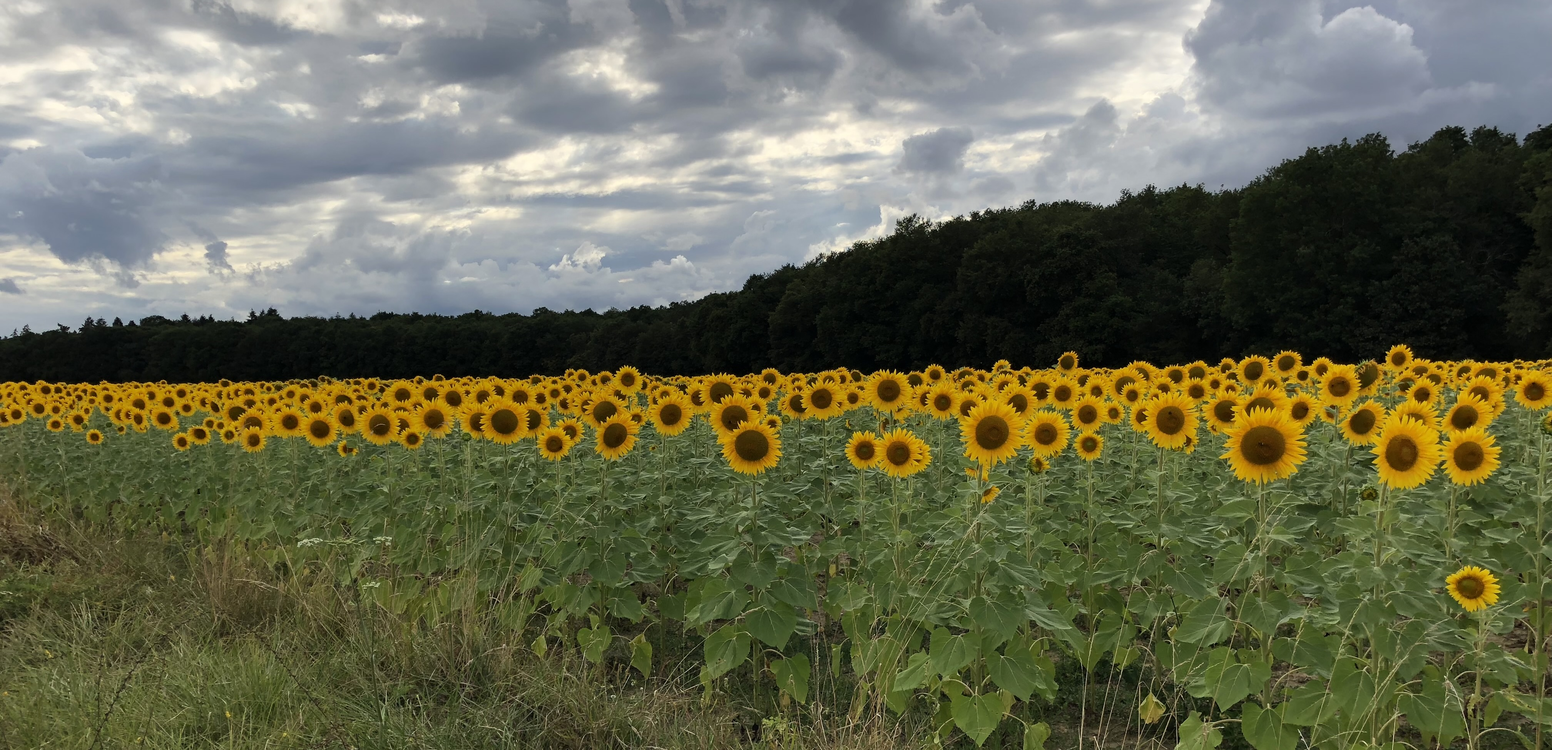
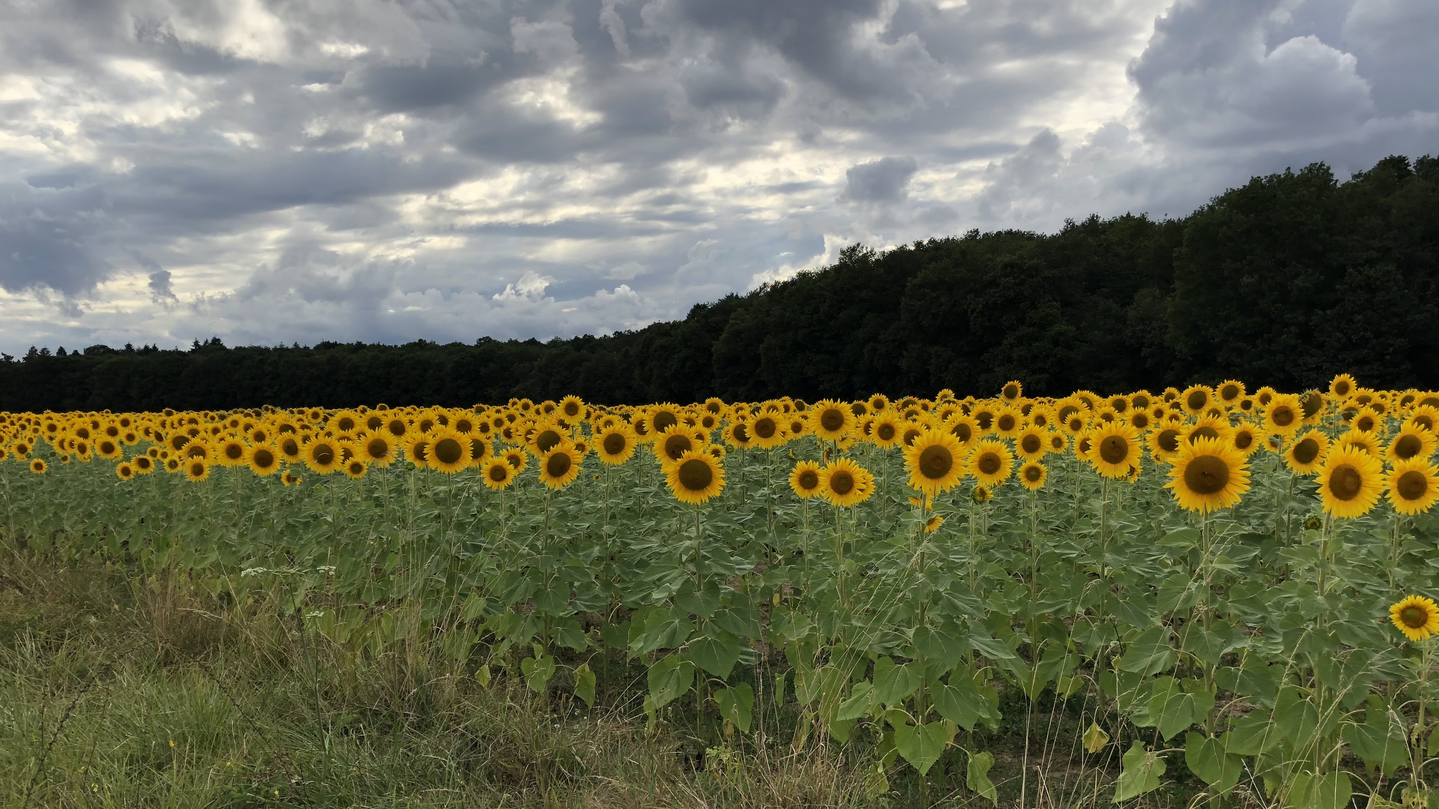
new pictures

diff --git a/index.html b/index.html
@@ -15,13 +15,33 @@
 
   <div class="banner">
       <div class="container">
-        <h2>Welcome to my CSS Library</h2>
-          <button class="btn-yellow" role="button">Start now!</button>
-          <a href="https://www.monsite.com" class="banner-link">Welcome to my CSS Library</a>
-
-    </div>
+      <h2>Welcome to my CSS Library</h2>
+        <button class="btn-yellow" role="button">Start now!</button>
+        <a href="https://www.monsite.com" class="banner-link">Welcome to my CSS Library</a>
+      </div>
   </div>
 
+  <div id="carousel-library" class="carousel slide" data-bs-ride="carousel">
+    <div class="carousel-inner">
+      <div class="carousel-item active">
+      <img src="images/2B2B8167-43A5-463D-800E-BAFCE752FF04_1_201_a.jpeg" class="d-block w-100" alt="chat">
+      </div>
+      <div class="carousel-item">
+      <img src="images/D63996FB-0B72-4E78-B748-3CAE178A1113_1_201_a.jpeg" class="d-block w-100" alt="plage">
+      </div>
+      <div class="carousel-item">
+      <img src="images/F209A834-769C-45E1-89F7-F4A1F0D573D1_1_201_a.jpeg" class="d-block w-100" alt="tournesols">
+      </div>
+    </div>
+    <button class="carousel-control-prev" type="button" data-bs-target="#carousel-library" data-bs-slide="prev"></button>
+      <span class="carousel-control-prev-icon" aria-hidden="true"></span>
+      <span class="visually-hidden">Previous</span>
+    </button>
+    <button class="carousel-control-next" type="button" data-bs-target="#carousel-library" data-bs-slide="next">
+      <span class="carousel-control-next-icon" aria-hidden="true"></span>
+      <span class="visually-hidden">Next</span>
+    </button>
+  </div>
 
 
   <!-- Your content goes here -->

diff --git a/css/styles.css b/css/styles.css
@@ -1,3 +1,4 @@
 @import url("components/button.css");
 @import url("components/banner.css");
 @import url("components/title.css");
+@import url("components/carousel.css");

diff --git a/css/components/carousel.css b/css/components/carousel.css
@@ -1,0 +1,4 @@
+.carousel-item img {
+  width: 50px;
+  height: auto; /* Pour maintenir les proportions */
+}
